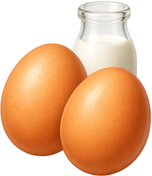
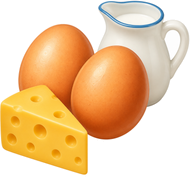
Icona Ous i làctics: ous, formatge i gerra de llet
Claude-Session: https://claude.ai/code/session_01U8Mmhj3w1kDHbZEJg4YuWh

diff --git a/nova/index.html b/nova/index.html
@@ -452,7 +452,7 @@ button.dgr{width:100%;border:0;box-shadow:none;min-height:0;height:auto;font:inh
 
 <script>/* xarxa de seguretat: si l'app no arrenca, botó per actualitzar */setTimeout(function(){var a=document.getElementById("app");if(a&&!a.innerHTML.trim()){a.innerHTML='<div style="padding:40px 20px;text-align:center;font:600 17px system-ui"><p>No s\'ha pogut obrir l\'app.</p><button id="sosup" style="font:700 17px system-ui;padding:12px 22px;border-radius:999px;border:0;background:#17599a;color:#fff">Actualitza</button></div>';document.getElementById("sosup").onclick=function(){(window.caches?caches.keys().then(function(k){return Promise.all(k.map(function(x){return caches.delete(x)}))}):Promise.resolve()).then(function(){location.reload()})};}},2500);</script>
 <script>
-const APPV="1793401594";let UPD=0,UPS=0;
+const APPV="1793401682";let UPD=0,UPS=0;
 
 const IC={"docs": "<svg viewBox=\"0 0 40 40\" width=\"22\" height=\"22\" aria-hidden=\"true\"><path d=\"M9 4h15l8 8v23a2 2 0 0 1-2 2H9a2 2 0 0 1-2-2V6a2 2 0 0 1 2-2z\" fill=\"#fff\" stroke=\"#5b6b7a\" stroke-width=\"1.5\"/><path d=\"M24 4v8h8\" fill=\"#e3e8ee\" stroke=\"#5b6b7a\" stroke-width=\"1.5\" stroke-linejoin=\"round\"/><circle cx=\"27\" cy=\"29\" r=\"8.5\" fill=\"#3f8a3a\" stroke=\"#fff\" stroke-width=\"1.6\"/><path d=\"M27 33.5v-9M23 28l4-4 4 4\" fill=\"none\" stroke=\"#fff\" stroke-width=\"2.2\" stroke-linecap=\"round\" stroke-linejoin=\"round\"/><path d=\"M12 17h10M12 21h7\" stroke=\"#9aa6b2\" stroke-width=\"1.6\" stroke-linecap=\"round\"/></svg>", "receptari": "<svg viewBox=\"0 0 40 40\" width=\"22\" height=\"22\" aria-hidden=\"true\"><path d=\"M6 7c5-2 10-2 14 1v27c-4-3-9-3-14-1z\" fill=\"#fff6e3\" stroke=\"#8a5a2b\" stroke-width=\"1.4\" stroke-linejoin=\"round\"/><path d=\"M34 7c-5-2-10-2-14 1v27c4-3 9-3 14-1z\" fill=\"#fff6e3\" stroke=\"#8a5a2b\" stroke-width=\"1.4\" stroke-linejoin=\"round\"/><path d=\"M4 9v26c6-2 11-2 16 1 5-3 10-3 16-1V9\" fill=\"none\" stroke=\"#c8352b\" stroke-width=\"2.4\" stroke-linejoin=\"round\"/><path d=\"M10 14h6M10 18h6M24 14h6M24 18h5\" stroke=\"#c9a46a\" stroke-width=\"1.5\" stroke-linecap=\"round\"/><path d=\"M27 24c0-2 3-2 3 0 0 2-3 3.5-3 3.5s-3-1.5-3-3.5c0-2 3-2 3 0z\" fill=\"#e0533f\"/></svg>", "menu": "<svg viewBox=\"0 0 40 40\" width=\"22\" height=\"22\" aria-hidden=\"true\"><rect x=\"5\" y=\"7\" width=\"30\" height=\"28\" rx=\"3\" fill=\"#fff\" stroke=\"#2f74b5\" stroke-width=\"1.5\"/><path d=\"M5 10a3 3 0 0 1 3-3h24a3 3 0 0 1 3 3v4H5z\" fill=\"#2f74b5\"/><path d=\"M12 4v6M28 4v6\" stroke=\"#1f4f80\" stroke-width=\"2.2\" stroke-linecap=\"round\"/><circle cx=\"20\" cy=\"25\" r=\"6.5\" fill=\"#f3e3c4\" stroke=\"#c9a46a\" stroke-width=\"1.3\"/><circle cx=\"20\" cy=\"25\" r=\"3.8\" fill=\"#fff\" stroke=\"#e2cfa6\" stroke-width=\"1\"/><path d=\"M10.5 20v10M9 20v3.5a1.5 1.5 0 0 0 3 0V20M29.5 20c1.6 0 1.8 3 1.8 4.6 0 1-.8 1.4-1.8 1.4V30\" fill=\"none\" stroke=\"#8a93a0\" stroke-width=\"1.2\" stroke-linecap=\"round\"/></svg>", "treball": "<svg viewBox=\"0 0 40 40\" width=\"22\" height=\"22\" aria-hidden=\"true\"><rect x=\"8\" y=\"6\" width=\"24\" height=\"30\" rx=\"3\" fill=\"#c98a4b\" stroke=\"#7a4a1e\" stroke-width=\"1.4\"/><rect x=\"11\" y=\"10\" width=\"18\" height=\"23\" rx=\"1.5\" fill=\"#fff\"/><rect x=\"15\" y=\"3.5\" width=\"10\" height=\"5\" rx=\"1.5\" fill=\"#9aa0a6\" stroke=\"#6b7177\" stroke-width=\"1\"/><path d=\"M14 16l2 2 3.5-3.5M14 23l2 2 3.5-3.5\" fill=\"none\" stroke=\"#3f8a3a\" stroke-width=\"1.9\" stroke-linecap=\"round\" stroke-linejoin=\"round\"/><path d=\"M22 17h5M22 24h5M14 29.5h13\" stroke=\"#b9bfc6\" stroke-width=\"1.6\" stroke-linecap=\"round\"/></svg>", "despesa": "<svg viewBox=\"0 0 40 40\" width=\"22\" height=\"22\" aria-hidden=\"true\"><path d=\"M8 4h20v31l-2.5-2-2.5 2-2.5-2-2.5 2-2.5-2-2.5 2-2.5-2L8 35z\" fill=\"#fff\" stroke=\"#7a838b\" stroke-width=\"1.4\" stroke-linejoin=\"round\"/><path d=\"M12 10h12M12 14h9M12 18h12\" stroke=\"#b9bfc6\" stroke-width=\"1.6\" stroke-linecap=\"round\"/><circle cx=\"27\" cy=\"27\" r=\"8\" fill=\"#f2c14a\" stroke=\"#c48a1a\" stroke-width=\"1.5\"/><path d=\"M29.6 23.6a4 4 0 1 0 0 6.8M22.8 25.8h5.4M22.8 28.2h5.4\" fill=\"none\" stroke=\"#8a5a10\" stroke-width=\"1.6\" stroke-linecap=\"round\"/></svg>", "hudsilo": "<svg aria-hidden=\"true\" width=\"30\" height=\"30\" viewBox=\"0 0 64 64\"><defs><linearGradient id=\"hsr\" x1=\"0\" x2=\"1\"><stop offset=\"0\" stop-color=\"#8f1a12\"/><stop offset=\".28\" stop-color=\"#d8392a\"/><stop offset=\".55\" stop-color=\"#e9503d\"/><stop offset=\"1\" stop-color=\"#9e2016\"/></linearGradient><linearGradient id=\"hsroof\" x1=\"0\" x2=\"1\"><stop offset=\"0\" stop-color=\"#3f3029\"/><stop offset=\".45\" stop-color=\"#7b6556\"/><stop offset=\"1\" stop-color=\"#4a3a31\"/></linearGradient><linearGradient id=\"hsgr\" x1=\"0\" y1=\"0\" x2=\"0\" y2=\"1\"><stop offset=\"0\" stop-color=\"#f7d36a\"/><stop offset=\".25\" stop-color=\"#e3a43a\"/><stop offset=\"1\" stop-color=\"#b8711e\"/></linearGradient><linearGradient id=\"hsmet\" x1=\"0\" x2=\"1\"><stop offset=\"0\" stop-color=\"#5d666e\"/><stop offset=\".5\" stop-color=\"#b9c2ca\"/><stop offset=\"1\" stop-color=\"#626b73\"/></linearGradient><linearGradient id=\"hsst\" x1=\"0\" y1=\"0\" x2=\"0\" y2=\"1\"><stop offset=\"0\" stop-color=\"#e4d8c6\"/><stop offset=\"1\" stop-color=\"#a99880\"/></linearGradient></defs><ellipse cx=\"32\" cy=\"58.5\" rx=\"17\" ry=\"4.2\" fill=\"url(#hsst)\" stroke=\"#7d6c56\" stroke-width=\"1.2\"/><path d=\"M17 17h30l-2.6 40.6c-6.2 2.2-18.6 2.2-24.8 0z\" fill=\"url(#hsr)\" stroke=\"#5f130c\" stroke-width=\"1.5\" stroke-linejoin=\"round\"/><path d=\"M22.4 18.5l1 40M27.6 18.6l.4 40.6M32.8 18.6v40.8M38 18.6l-.4 40.6M43.2 18.5l-1 40\" stroke=\"#7d160e\" stroke-width=\"1\" opacity=\".75\"/><path d=\"M20.2 18.8l1.6 38.4\" stroke=\"#f47b66\" stroke-width=\"1.6\" opacity=\".7\"/><path d=\"M17.3 27.5c8.6 2.8 20.8 2.8 29.4 0M18.3 44c8 2.6 19.4 2.6 27.4 0\" fill=\"none\" stroke=\"#5f130c\" stroke-width=\"3.4\" opacity=\".35\"/><path d=\"M17.3 27c8.6 2.8 20.8 2.8 29.4 0M18.3 43.5c8 2.6 19.4 2.6 27.4 0\" fill=\"none\" stroke=\"#fbf6ee\" stroke-width=\"2.4\"/><path d=\"M28.4 21.5h7.2l-1.2 33h-4.8z\" fill=\"#fbf6ee\" stroke=\"#6b1a10\" stroke-width=\"1\"/><path d=\"M29.9 23.2h4.2l-1 29.6h-2.2z\" fill=\"#5d120b\"/><path d=\"M30.4 36.5h3.4l-.7 16.3h-2.2z\" fill=\"url(#hsgr)\"/><path d=\"M30.2 37c.3-4.4 3.5-4.4 3.8 0z\" fill=\"#f7d36a\" stroke=\"#c48a26\" stroke-width=\".5\"/><circle cx=\"31.4\" cy=\"34.8\" r=\".5\" fill=\"#fff3c4\"/><circle cx=\"32.8\" cy=\"35.6\" r=\".4\" fill=\"#fff3c4\"/><path d=\"M19.5 41l-2.6.6.4 14.8M44.5 41l2.6.6-.4 14.8\" fill=\"none\" stroke=\"url(#hsmet)\" stroke-width=\"2.4\" stroke-linecap=\"round\" stroke-linejoin=\"round\"/><rect x=\"15.6\" y=\"55.3\" width=\"3.4\" height=\"2\" rx=\".6\" fill=\"#7d868f\" stroke=\"#3f464c\" stroke-width=\".6\"/><rect x=\"45\" y=\"55.3\" width=\"3.4\" height=\"2\" rx=\".6\" fill=\"#7d868f\" stroke=\"#3f464c\" stroke-width=\".6\"/><path d=\"M46 21.4h4.4v3.4\" fill=\"none\" stroke=\"url(#hsmet)\" stroke-width=\"2.2\" stroke-linecap=\"round\"/><path d=\"M50.4 24.8c1.4 4 .6 8 -1 10\" fill=\"none\" stroke=\"#a87c4f\" stroke-width=\".9\"/><path d=\"M32 3.5 14.2 17.4c5 2.4 30.6 2.4 35.6 0z\" fill=\"url(#hsroof)\" stroke=\"#2a201b\" stroke-width=\"1.5\" stroke-linejoin=\"round\"/><path d=\"M32 4.4l-7.6 13.8M32 4.4l7.2 13.8\" stroke=\"#8d7766\" stroke-width=\".8\" opacity=\".6\"/><path d=\"M21.6 11l6.2-2.2 2.4 4.2-6.4 2.2z\" fill=\"#d3d9de\" stroke=\"#5f676e\" stroke-width=\"1\"/><path d=\"M24.4 11.6l2.4-.8\" stroke=\"#5f676e\" stroke-width=\"1\" stroke-linecap=\"round\"/></svg>", "shopico": "<svg aria-hidden=\"true\" width=\"34\" height=\"34\" viewBox=\"0 0 64 64\"><defs><linearGradient id=\"bw\" x1=\"0\" x2=\"0\" y1=\"0\" y2=\"1\"><stop offset=\"0\" stop-color=\"#9c5f30\"/><stop offset=\"1\" stop-color=\"#6a3b19\"/></linearGradient><linearGradient id=\"bp\" x1=\"0\" x2=\"1\"><stop offset=\"0\" stop-color=\"#6f4120\"/><stop offset=\".5\" stop-color=\"#a86a35\"/><stop offset=\"1\" stop-color=\"#6f4120\"/></linearGradient><linearGradient id=\"bc\" x1=\"0\" x2=\"0\" y1=\"0\" y2=\"1\"><stop offset=\"0\" stop-color=\"#e4b47a\"/><stop offset=\"1\" stop-color=\"#b9824a\"/></linearGradient><linearGradient id=\"bcin\" x1=\"0\" x2=\"0\" y1=\"0\" y2=\"1\"><stop offset=\"0\" stop-color=\"#7a4a24\"/><stop offset=\"1\" stop-color=\"#a86e3c\"/></linearGradient><linearGradient id=\"awr\" x1=\"0\" x2=\"0\" y1=\"0\" y2=\"1\"><stop offset=\"0\" stop-color=\"#f05a48\"/><stop offset=\"1\" stop-color=\"#c62a20\"/></linearGradient><linearGradient id=\"aww\" x1=\"0\" x2=\"0\" y1=\"0\" y2=\"1\"><stop offset=\"0\" stop-color=\"#ffffff\"/><stop offset=\"1\" stop-color=\"#e9ddd0\"/></linearGradient><radialGradient id=\"ar\" cx=\".35\" cy=\".35\" r=\".7\"><stop offset=\"0\" stop-color=\"#ff8a7a\"/><stop offset=\".5\" stop-color=\"#e3261c\"/><stop offset=\"1\" stop-color=\"#9c120c\"/></radialGradient><radialGradient id=\"ag\" cx=\".35\" cy=\".35\" r=\".7\"><stop offset=\"0\" stop-color=\"#d9ff9a\"/><stop offset=\".5\" stop-color=\"#6cc43a\"/><stop offset=\"1\" stop-color=\"#2f7a1a\"/></radialGradient><linearGradient id=\"bk\" x1=\"0\" x2=\"1\"><stop offset=\"0\" stop-color=\"#7a4a24\"/><stop offset=\".5\" stop-color=\"#c0814a\"/><stop offset=\"1\" stop-color=\"#7a4a24\"/></linearGradient></defs><path d=\"M4 50l10-5h40l4 6-10 7H8z\" fill=\"url(#bw)\" stroke=\"#3f230e\" stroke-width=\"1.3\" stroke-linejoin=\"round\"/><path d=\"M12 47l-3 9M20 46l-3 11M28 46l-2 12M36 46l-1 12M44 46l1 12M52 47l2 9\" stroke=\"#4a2a12\" stroke-width=\".9\" opacity=\".7\"/><rect x=\"49\" y=\"12\" width=\"3.6\" height=\"40\" rx=\"1\" fill=\"url(#bp)\" stroke=\"#3f230e\" stroke-width=\"1.1\"/><rect x=\"13.2\" y=\"18\" width=\"3.4\" height=\"28\" rx=\"1\" fill=\"url(#bp)\" stroke=\"#3f230e\" stroke-width=\"1.1\"/><path d=\"M16 40h32v9H17z\" fill=\"#a8622e\" stroke=\"#4a2a12\" stroke-width=\"1.1\"/><path d=\"M17 44.5h31\" stroke=\"#7a431c\" stroke-width=\".9\"/><path d=\"M13 37.5l34-5 4 7.6-35 5.4z\" fill=\"#f1dfbd\" stroke=\"#6b3f17\" stroke-width=\"1.1\" stroke-linejoin=\"round\"/><path d=\"M15 36.5l31.6-4.8 3 6-32 4.9z\" fill=\"url(#bc)\" stroke=\"#5e3614\" stroke-width=\"1.1\" stroke-linejoin=\"round\"/><path d=\"M18.4 37.6l9-1.4 1 2.6-9 1.4zM29.4 35.9l9-1.4 1 2.6-9 1.4zM40.2 34.3l6-.9 1.1 2.6-6.1.9zM19.6 39.9l9-1.4.9 1.4-9 1.4zM30.6 38.2l9-1.4.9 1.4-9 1.4z\" fill=\"url(#bcin)\"/><path d=\"M27.4 36.2l2.1 4.3M38.4 34.5l2 4.3\" stroke=\"#5e3614\" stroke-width=\"1.2\"/><path d=\"M8.5 15.5C14 9 38 5.5 54 9.5l1.6 5\" fill=\"none\" stroke=\"#7a1e14\" stroke-width=\"1.4\"/><path d=\"M8.5 15.5 10 24.5c2.4 2 5.2 1.6 6.4-.6 2.2 2.1 5 1.8 6.3-.5 2.2 2 5 1.7 6.2-.6 2.2 2 5 1.6 6.2-.6 2.2 1.9 5 1.6 6.1-.7 2.2 1.9 4.9 1.5 6-.8 2.1 1.7 4.7 1.3 5.6-1L54 9.5C38 5.5 14 9 8.5 15.5z\" fill=\"url(#aww)\" stroke=\"#7a1e14\" stroke-width=\"1.4\" stroke-linejoin=\"round\"/><path d=\"M10 24.5c2.4 2 5.2 1.6 6.4-.6l-1.4-11.6-6.5 3.2zM22.7 23.4c2.2 2 5 1.7 6.2-.6l-1.2-13-6.7 1.4zM35.1 22.2c2.2 1.9 5 1.6 6.1-.7l-.6-13.1-6.6.4zM47.2 20.7c2.1 1.7 4.7 1.3 5.6-1L54 9.5l-6.4-1.1z\" fill=\"url(#awr)\"/><path d=\"M10.5 16.4c8-4.2 28-6 42.4-3.4\" fill=\"none\" stroke=\"#fff\" stroke-width=\"1\" opacity=\".55\"/><circle cx=\"31\" cy=\"7.3\" r=\"1.3\" fill=\"#a9b2ba\" stroke=\"#5f676e\" stroke-width=\".6\"/><circle cx=\"53.6\" cy=\"9.6\" r=\"1.3\" fill=\"#a9b2ba\" stroke=\"#5f676e\" stroke-width=\".6\"/><path d=\"M2.5 48.5h12l-1.4 9.5H4z\" fill=\"url(#bk)\" stroke=\"#4a2a12\" stroke-width=\"1.1\"/><path d=\"M3.2 52.3h10.6\" stroke=\"#9aa3ab\" stroke-width=\"1.6\"/><circle cx=\"5.6\" cy=\"47.2\" r=\"2.6\" fill=\"url(#ag)\"/><circle cx=\"9.4\" cy=\"46.4\" r=\"2.7\" fill=\"url(#ag)\"/><circle cx=\"12.3\" cy=\"47.6\" r=\"2.3\" fill=\"url(#ag)\"/><path d=\"M47 51.5h12l-1.4 9.5h-9.2z\" fill=\"url(#bk)\" stroke=\"#4a2a12\" stroke-width=\"1.1\"/><path d=\"M47.7 55.3h10.6\" stroke=\"#9aa3ab\" stroke-width=\"1.6\"/><circle cx=\"50.2\" cy=\"50.2\" r=\"2.6\" fill=\"url(#ar)\"/><circle cx=\"54\" cy=\"49.4\" r=\"2.7\" fill=\"url(#ar)\"/><circle cx=\"56.8\" cy=\"50.6\" r=\"2.3\" fill=\"url(#ar)\"/><path d=\"M54 46.8l.4-1.4\" stroke=\"#4a2a12\" stroke-width=\".8\"/></svg>", "veiico": "<svg aria-hidden=\"true\" width=\"32\" height=\"32\" viewBox=\"0 0 64 64\"><path d=\"M2 47c10-5 21-6 30-4s20 3 30-2v19H2z\" fill=\"#7fb944\"/><g stroke=\"#6b4423\" stroke-width=\"1.8\" stroke-linejoin=\"round\"><rect x=\"5\" y=\"32\" width=\"15\" height=\"14\" rx=\"1\" fill=\"#fbf1dc\"/><path d=\"M3 33.5 12.5 22 22 33.5z\" fill=\"#d1453b\"/><rect x=\"44\" y=\"32\" width=\"15\" height=\"14\" rx=\"1\" fill=\"#fbf1dc\"/><path d=\"M42 33.5 51.5 22 61 33.5z\" fill=\"#eaa63a\"/><rect x=\"38\" y=\"15\" width=\"4.5\" height=\"9\" fill=\"#a8562c\"/><rect x=\"19\" y=\"28\" width=\"26\" height=\"21\" rx=\"1.2\" fill=\"#fffaf0\"/><path d=\"M16 30 32 14l16 16z\" fill=\"#6e8c3c\"/><rect x=\"28.5\" y=\"38\" width=\"7\" height=\"11\" rx=\"1\" fill=\"#9a5a2b\"/></g><rect x=\"22.5\" y=\"32\" width=\"4.5\" height=\"4\" fill=\"#8cc7ec\"/><rect x=\"37\" y=\"32\" width=\"4.5\" height=\"4\" fill=\"#8cc7ec\"/></svg>", "crea": "<svg viewBox=\"0 0 40 40\" width=\"22\" height=\"22\" aria-hidden=\"true\"><path d=\"M8 4h15l7 7v24a2 2 0 0 1-2 2H8a2 2 0 0 1-2-2V6a2 2 0 0 1 2-2z\" fill=\"#fff\" stroke=\"#5b6b7a\" stroke-width=\"1.5\"/><path d=\"M23 4v7h7\" fill=\"#e3e8ee\" stroke=\"#5b6b7a\" stroke-width=\"1.5\" stroke-linejoin=\"round\"/><path d=\"M11 15h11M11 19h12M11 23h7\" stroke=\"#9aa6b2\" stroke-width=\"1.6\" stroke-linecap=\"round\"/><path d=\"M20 30 31 19l4 4-11 11z\" fill=\"#eaa63a\" stroke=\"#8a5a2b\" stroke-width=\"1.3\" stroke-linejoin=\"round\"/><path d=\"M31 19l1.6-1.6a1.4 1.4 0 0 1 2 0l2 2a1.4 1.4 0 0 1 0 2L35 23z\" fill=\"#e0533f\" stroke=\"#8a5a2b\" stroke-width=\"1.3\" stroke-linejoin=\"round\"/><path d=\"M20 30l4 4-6 2z\" fill=\"#f3e3c4\" stroke=\"#8a5a2b\" stroke-width=\"1.3\" stroke-linejoin=\"round\"/><path d=\"M18.6 34.4 18 36l1.6-.6z\" fill=\"#3d3d3d\"/></svg>", "qc": "<svg viewBox=\"0 0 40 40\" width=\"22\" height=\"22\" aria-hidden=\"true\"><path d=\"M15.5 19 20.3 7.2l3.3 1.3-3.4 10.8z\" fill=\"#eaa63a\" stroke=\"#a8562c\" stroke-width=\"1.3\" stroke-linejoin=\"round\"/><path d=\"M18 13.5l2 .8M17 16l1.8.7\" stroke=\"#a8562c\" stroke-width=\"1\" stroke-linecap=\"round\"/><path d=\"M21.5 7.6c-.9-2.6.2-4.3 1.6-4.9.6 1.8.4 3.6-.9 5.2zM22.3 8c1.6-2 3.6-2.2 5-1.4-1.3 1.3-3 1.9-5 1.4z\" fill=\"#7fb944\" stroke=\"#4f7a2a\" stroke-width=\"1\" stroke-linejoin=\"round\"/><path d=\"M25.5 19c-.3-4.2 1.9-7.2 5.6-8.4-.1 3.8-2 6.8-5.6 8.4z\" fill=\"#7fb944\" stroke=\"#4f7a2a\" stroke-width=\"1.2\" stroke-linejoin=\"round\"/><path d=\"M7 20h26v8a7 7 0 0 1-7 7H14a7 7 0 0 1-7-7z\" fill=\"#d8392a\" stroke=\"#8f1a12\" stroke-width=\"1.5\" stroke-linejoin=\"round\"/><path d=\"M4.5 19.5h31\" stroke=\"#8f1a12\" stroke-width=\"2.6\" stroke-linecap=\"round\"/><path d=\"M7 23.5H3.5M33 23.5h3.5\" stroke=\"#8f1a12\" stroke-width=\"2.4\" stroke-linecap=\"round\"/><path d=\"M11 24v4.5\" stroke=\"#f08a7a\" stroke-width=\"1.8\" stroke-linecap=\"round\"/></svg>", "casa": "<svg viewBox=\"0 0 40 40\" width=\"22\" height=\"22\" aria-hidden=\"true\"><ellipse cx=\"20\" cy=\"37.2\" rx=\"14\" ry=\"1.6\" fill=\"#000\" opacity=\".13\"/><path d=\"M7 19 20 7l13 12v17H7z\" fill=\"#f3e3c4\" stroke=\"#7a4a1e\" stroke-width=\"1.3\" stroke-linejoin=\"round\"/><path d=\"M4 20.5 20 5.5l16 15\" fill=\"none\" stroke=\"#c8352b\" stroke-width=\"3.4\" stroke-linecap=\"round\" stroke-linejoin=\"round\"/><rect x=\"26\" y=\"8\" width=\"4\" height=\"7\" fill=\"#9b5a2b\"/><rect x=\"16.5\" y=\"25\" width=\"7\" height=\"11\" rx=\"1\" fill=\"#9b5a2b\"/><path d=\"M14 21.5a3 3 0 0 1 6 0c0 2.6-3 4.4-3 4.4s-3-1.8-3-4.4zM20 21.5a3 3 0 0 1 6 0c0 2.6-3 4.4-3 4.4\" fill=\"none\"/><path d=\"M17.2 18.6c-1.6-1.6-4.2-.2-3.6 2 .5 1.8 3.6 3.6 3.6 3.6s3.1-1.8 3.6-3.6c.6-2.2-2-3.6-3.6-2z\" fill=\"#e0533f\" transform=\"translate(2.8 -1.2)\"/></svg>", "graner": "<svg viewBox=\"0 0 40 40\" width=\"22\" height=\"22\" aria-hidden=\"true\"><ellipse cx=\"20\" cy=\"37.2\" rx=\"15\" ry=\"1.6\" fill=\"#000\" opacity=\".13\"/><path d=\"M6 17.5 9.5 9.5 20 4.5 30.5 9.5 34 17.5V36H6z\" fill=\"#c8352b\" stroke=\"#7d1d17\" stroke-width=\"1.1\" stroke-linejoin=\"round\"/><path d=\"M3.5 18.5 8.4 8.2 20 2.8 31.6 8.2 36.5 18.5\" fill=\"none\" stroke=\"#2f3236\" stroke-width=\"3.2\" stroke-linecap=\"round\" stroke-linejoin=\"round\"/><path d=\"M9 21h22\" stroke=\"#fff\" stroke-width=\"1.6\"/><path d=\"M10 12.4 9.6 13\" stroke=\"#a52a22\" stroke-width=\".8\"/><path d=\"M12 24v12M28 24v12\" stroke=\"#a52a22\" stroke-width=\".8\" opacity=\".7\"/><rect x=\"16.5\" y=\"9.8\" width=\"7\" height=\"6.4\" fill=\"#fff\" stroke=\"#7d1d17\" stroke-width=\".6\"/><path d=\"M16.5 9.8 23.5 16.2M23.5 9.8 16.5 16.2\" stroke=\"#c8352b\" stroke-width=\"1.1\"/><rect x=\"13.5\" y=\"23.5\" width=\"13\" height=\"12.5\" fill=\"#fff\"/><rect x=\"15\" y=\"25\" width=\"10\" height=\"11\" fill=\"#8e2219\"/><path d=\"M15 25 25 36M25 25 15 36\" stroke=\"#fff\" stroke-width=\"1.3\"/><path d=\"M20 25v11\" stroke=\"#fff\" stroke-width=\"1\"/><rect x=\"5.5\" y=\"35.5\" width=\"29\" height=\"1.6\" rx=\".8\" fill=\"#9aa0a6\"/></svg>", "cart": "<svg viewBox=\"0 0 40 40\" width=\"28\" height=\"28\" aria-hidden=\"true\"><path d=\"M3 7h5l4 20h20\" fill=\"none\" stroke=\"#1f4f80\" stroke-width=\"2.4\" stroke-linecap=\"round\" stroke-linejoin=\"round\"/><path d=\"M9.5 12h26l-3 12H12z\" fill=\"#fff\" stroke=\"#2f74b5\" stroke-width=\"1.6\" stroke-linejoin=\"round\"/><path d=\"M15 12.5 18 5.5l3 1.2-2.4 5.8z\" fill=\"#eaa63a\" stroke=\"#a8562c\" stroke-width=\"1.1\" stroke-linejoin=\"round\"/><path d=\"M22 12c.2-3.6 2.2-6 5.4-6.8-.3 3.2-2 5.6-5.4 6.8z\" fill=\"#7fb944\" stroke=\"#4f7a2a\" stroke-width=\"1.1\" stroke-linejoin=\"round\"/><circle cx=\"27\" cy=\"9.5\" r=\"2.6\" fill=\"#d8392a\" stroke=\"#8f1a12\" stroke-width=\"1\"/><path d=\"M15 17h15M14 21h15\" stroke=\"#9aa6b2\" stroke-width=\"1.4\" stroke-linecap=\"round\"/><circle cx=\"14\" cy=\"32\" r=\"2.6\" fill=\"#3d3d3d\"/><circle cx=\"29\" cy=\"32\" r=\"2.6\" fill=\"#3d3d3d\"/></svg>"};
 const PI=n=>`<img class="pi" src="img/${n}.png" alt="" aria-hidden="true">`;Object.assign(IC,{menu:PI("nav_menu"),cart:PI("icona_compra"),receptari:PI("nav_receptari"),despesa:PI("nav_despesa"),crea:PI("nav_crea"),qc:PI("nav_que_cuino"),hudsilo:PI("hud_sitja"),shopico:PI("hud_botiga_37"),veiico:PI("hud_veinat")});
